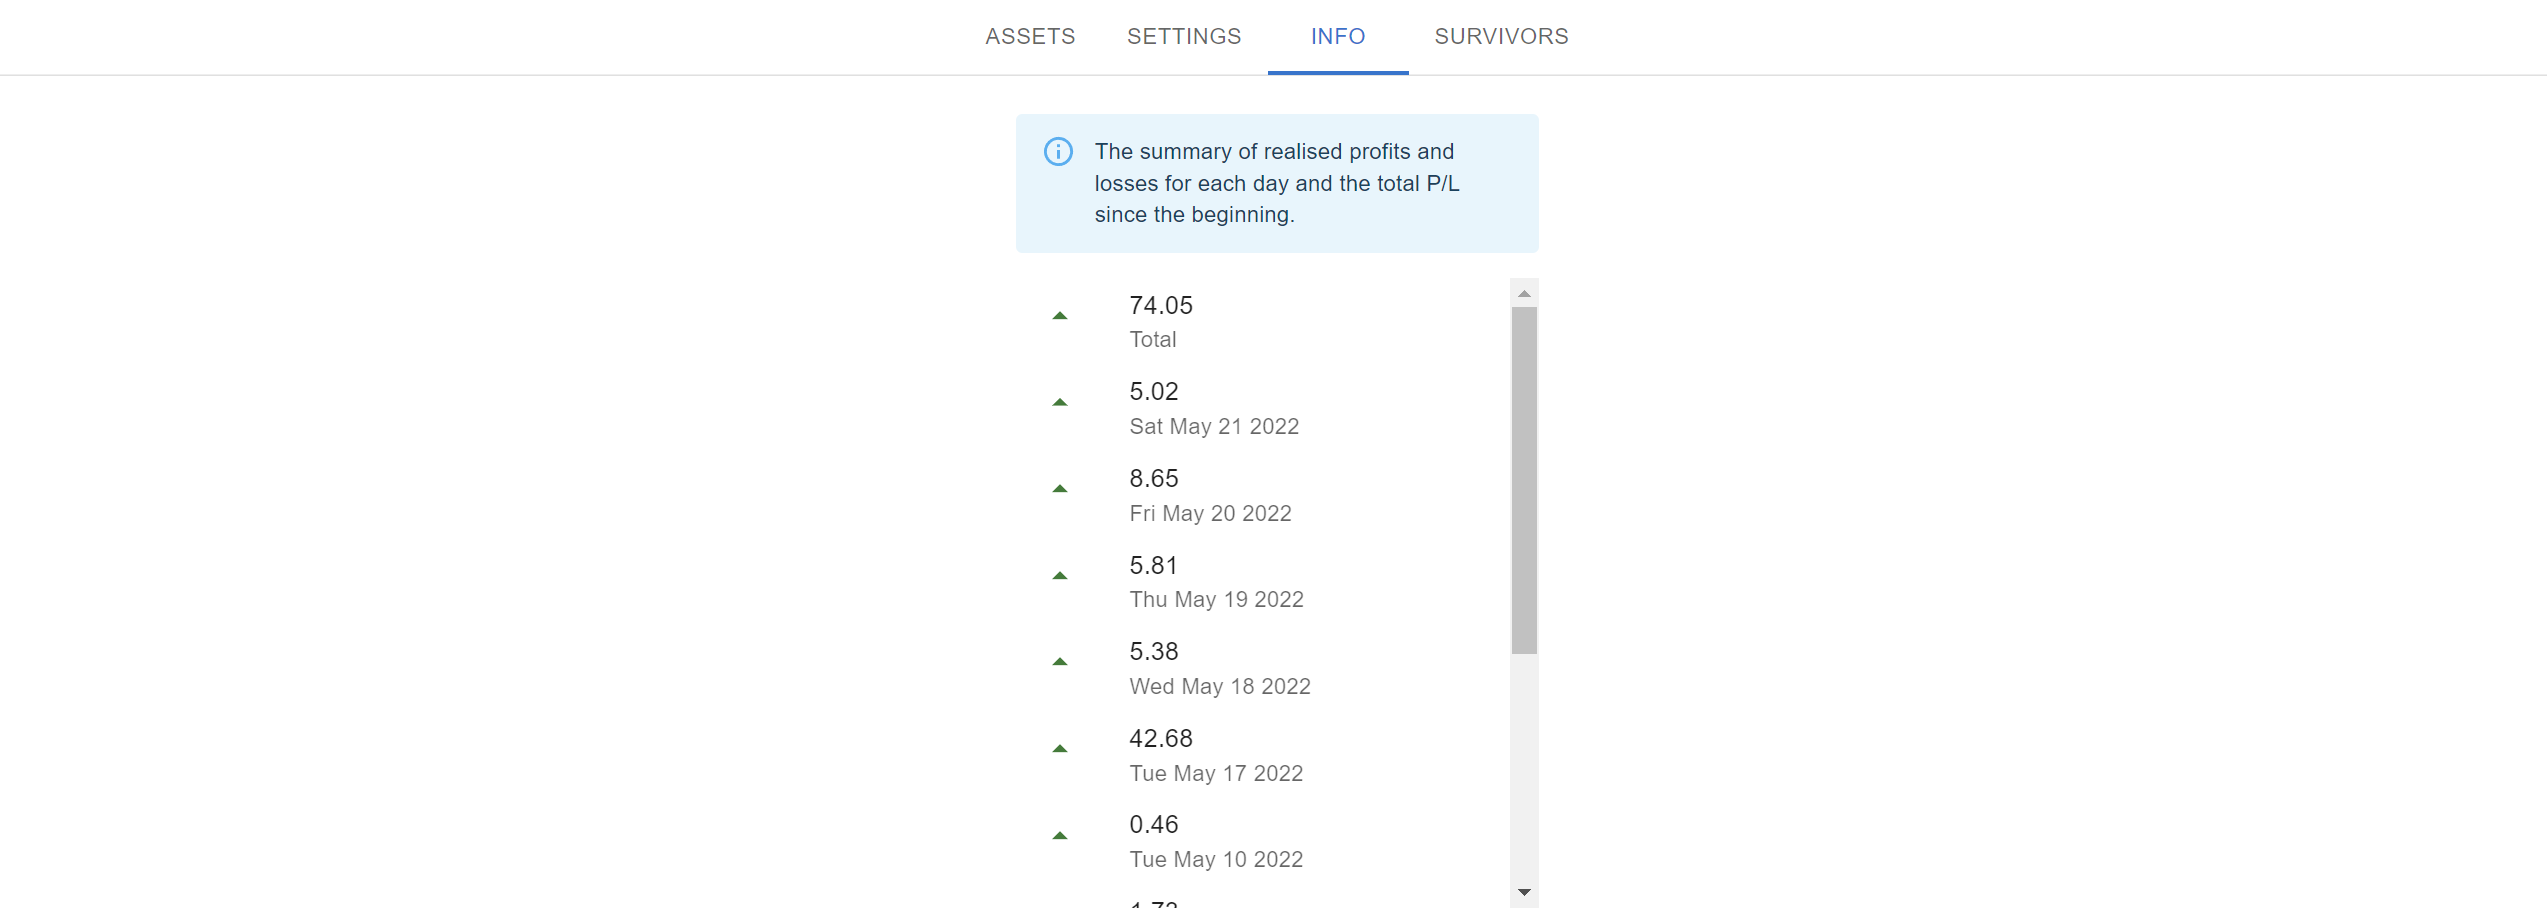
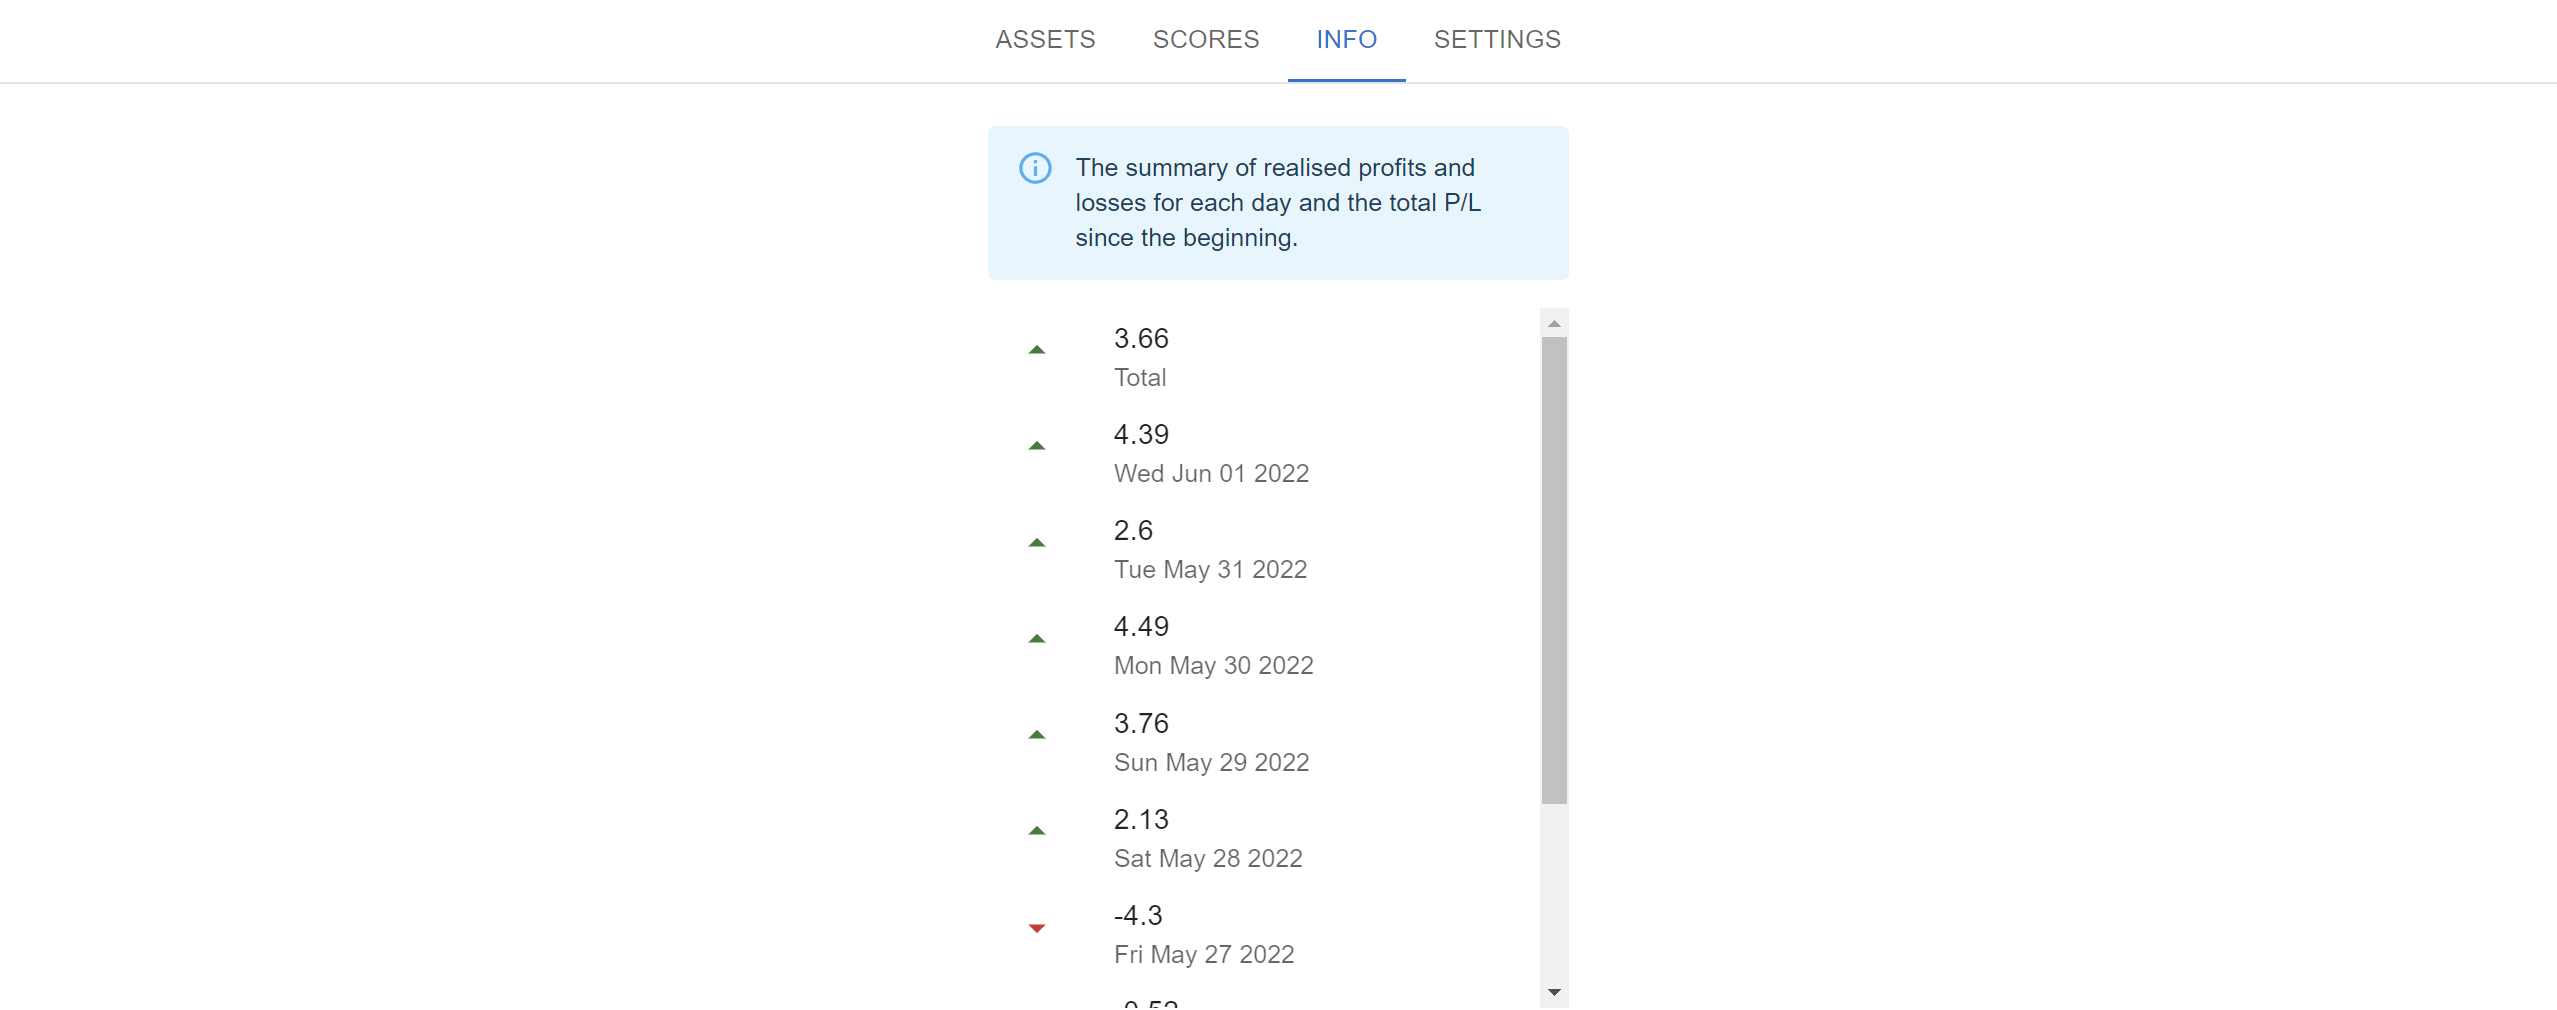
Update README.md

diff --git a/README.md b/README.md
@@ -17,24 +17,36 @@ Buy me a coffee, to support this project. It will not evolve without your suppor
 
 ## Features
 
-* Integration with Binance: buy and sell coins on the spot.
+* Integration with Binance spot.
+* Settings for manual, semi-autonomous or fully-autonomous trading style.
 * Set up your profit and stop limits to automatically sell coins when the limits are crossed.
-* A moving stop-limit, which goes up together with the price.
-* A stop-limit based on a total profit of the tool.
+* A moving stop-limit, which goes up together with the price, or fixed, based on a total profit of the tool.
 * Price anomalies detection (pump or dump) with an option to auto-buy when price drops.
 * Swing trading: automatically buy low and sell high during the rally.
 * Averaging down: automatically re-invest gains into most unprofitable coins to buy them at discount prices.
 * Your statistics: see how much you have made and how much you have lost on a daily basis.
-* Scores: currencies that statistically show movement up when 99% of the market goes down or not moves.
+
+### Available for Patrons only
+
+* __Scores__: the recommendations engine which finds best/rare opportunities and enables a truly fully-autonomous
+  trading.
 
 ### Assets
+
 ![assets.png](img/assets.png)
-### Settings
-![settings.png](img/settings.png)
-### Info
-![info.png](img/info.png)
+
 ### Scores
+
 ![scores.png](img/scores.png)
+
+### Info
+
+![info.png](img/info.png)
+
+### Settings
+
+![settings1.png](img/settings1.png)
+![settings2.png](img/settings2.png)
 
 ## How to
 
@@ -46,10 +58,12 @@ Buy me a coffee, to support this project. It will not evolve without your suppor
 ### Set up the latest build
 
 There are ready to use builds published in the Google Apps Script and made available to everyone via a link.
-Links are attached to each release. See [latest release](https://github.com/bogdan-kovalev/trading-helper/releases/latest).
+Links are attached to each release.
+See [latest release](https://github.com/bogdan-kovalev/trading-helper/releases/latest).
 
 You will need to clone the Google Apps Script project to your account and set it up.
-See the [Tutorials playlist on YouTube](https://www.youtube.com/playlist?list=PLAiqSgC5hs1fcFglYk81W7hpNRJbqu0Ox). The setup was simplified as much as possible for this kind of project.
+See the [Tutorials playlist on YouTube](https://www.youtube.com/playlist?list=PLAiqSgC5hs1fcFglYk81W7hpNRJbqu0Ox). The
+setup was simplified as much as possible for this kind of project.
 
 ### Set up from sources
 

diff --git a/CHANGELOG.md b/CHANGELOG.md
@@ -1,7 +1,8 @@
-# v2.6.2
+# v2.7.0
 
-Contains improvements to existing features:
-* Survivors feature improved and renamed to Scores. New option related to scores in Settings -> Advanced.
+* New "Scores" feature (successor to "Survivors"). New related Settings: "Autonomous trading" and "Score Selectivity".
+* UI improvements.
+* Many improvements under the hood.
 * Stop-limit auto-sell now happens only on crossing-down even.
 
 # v2.6.1
